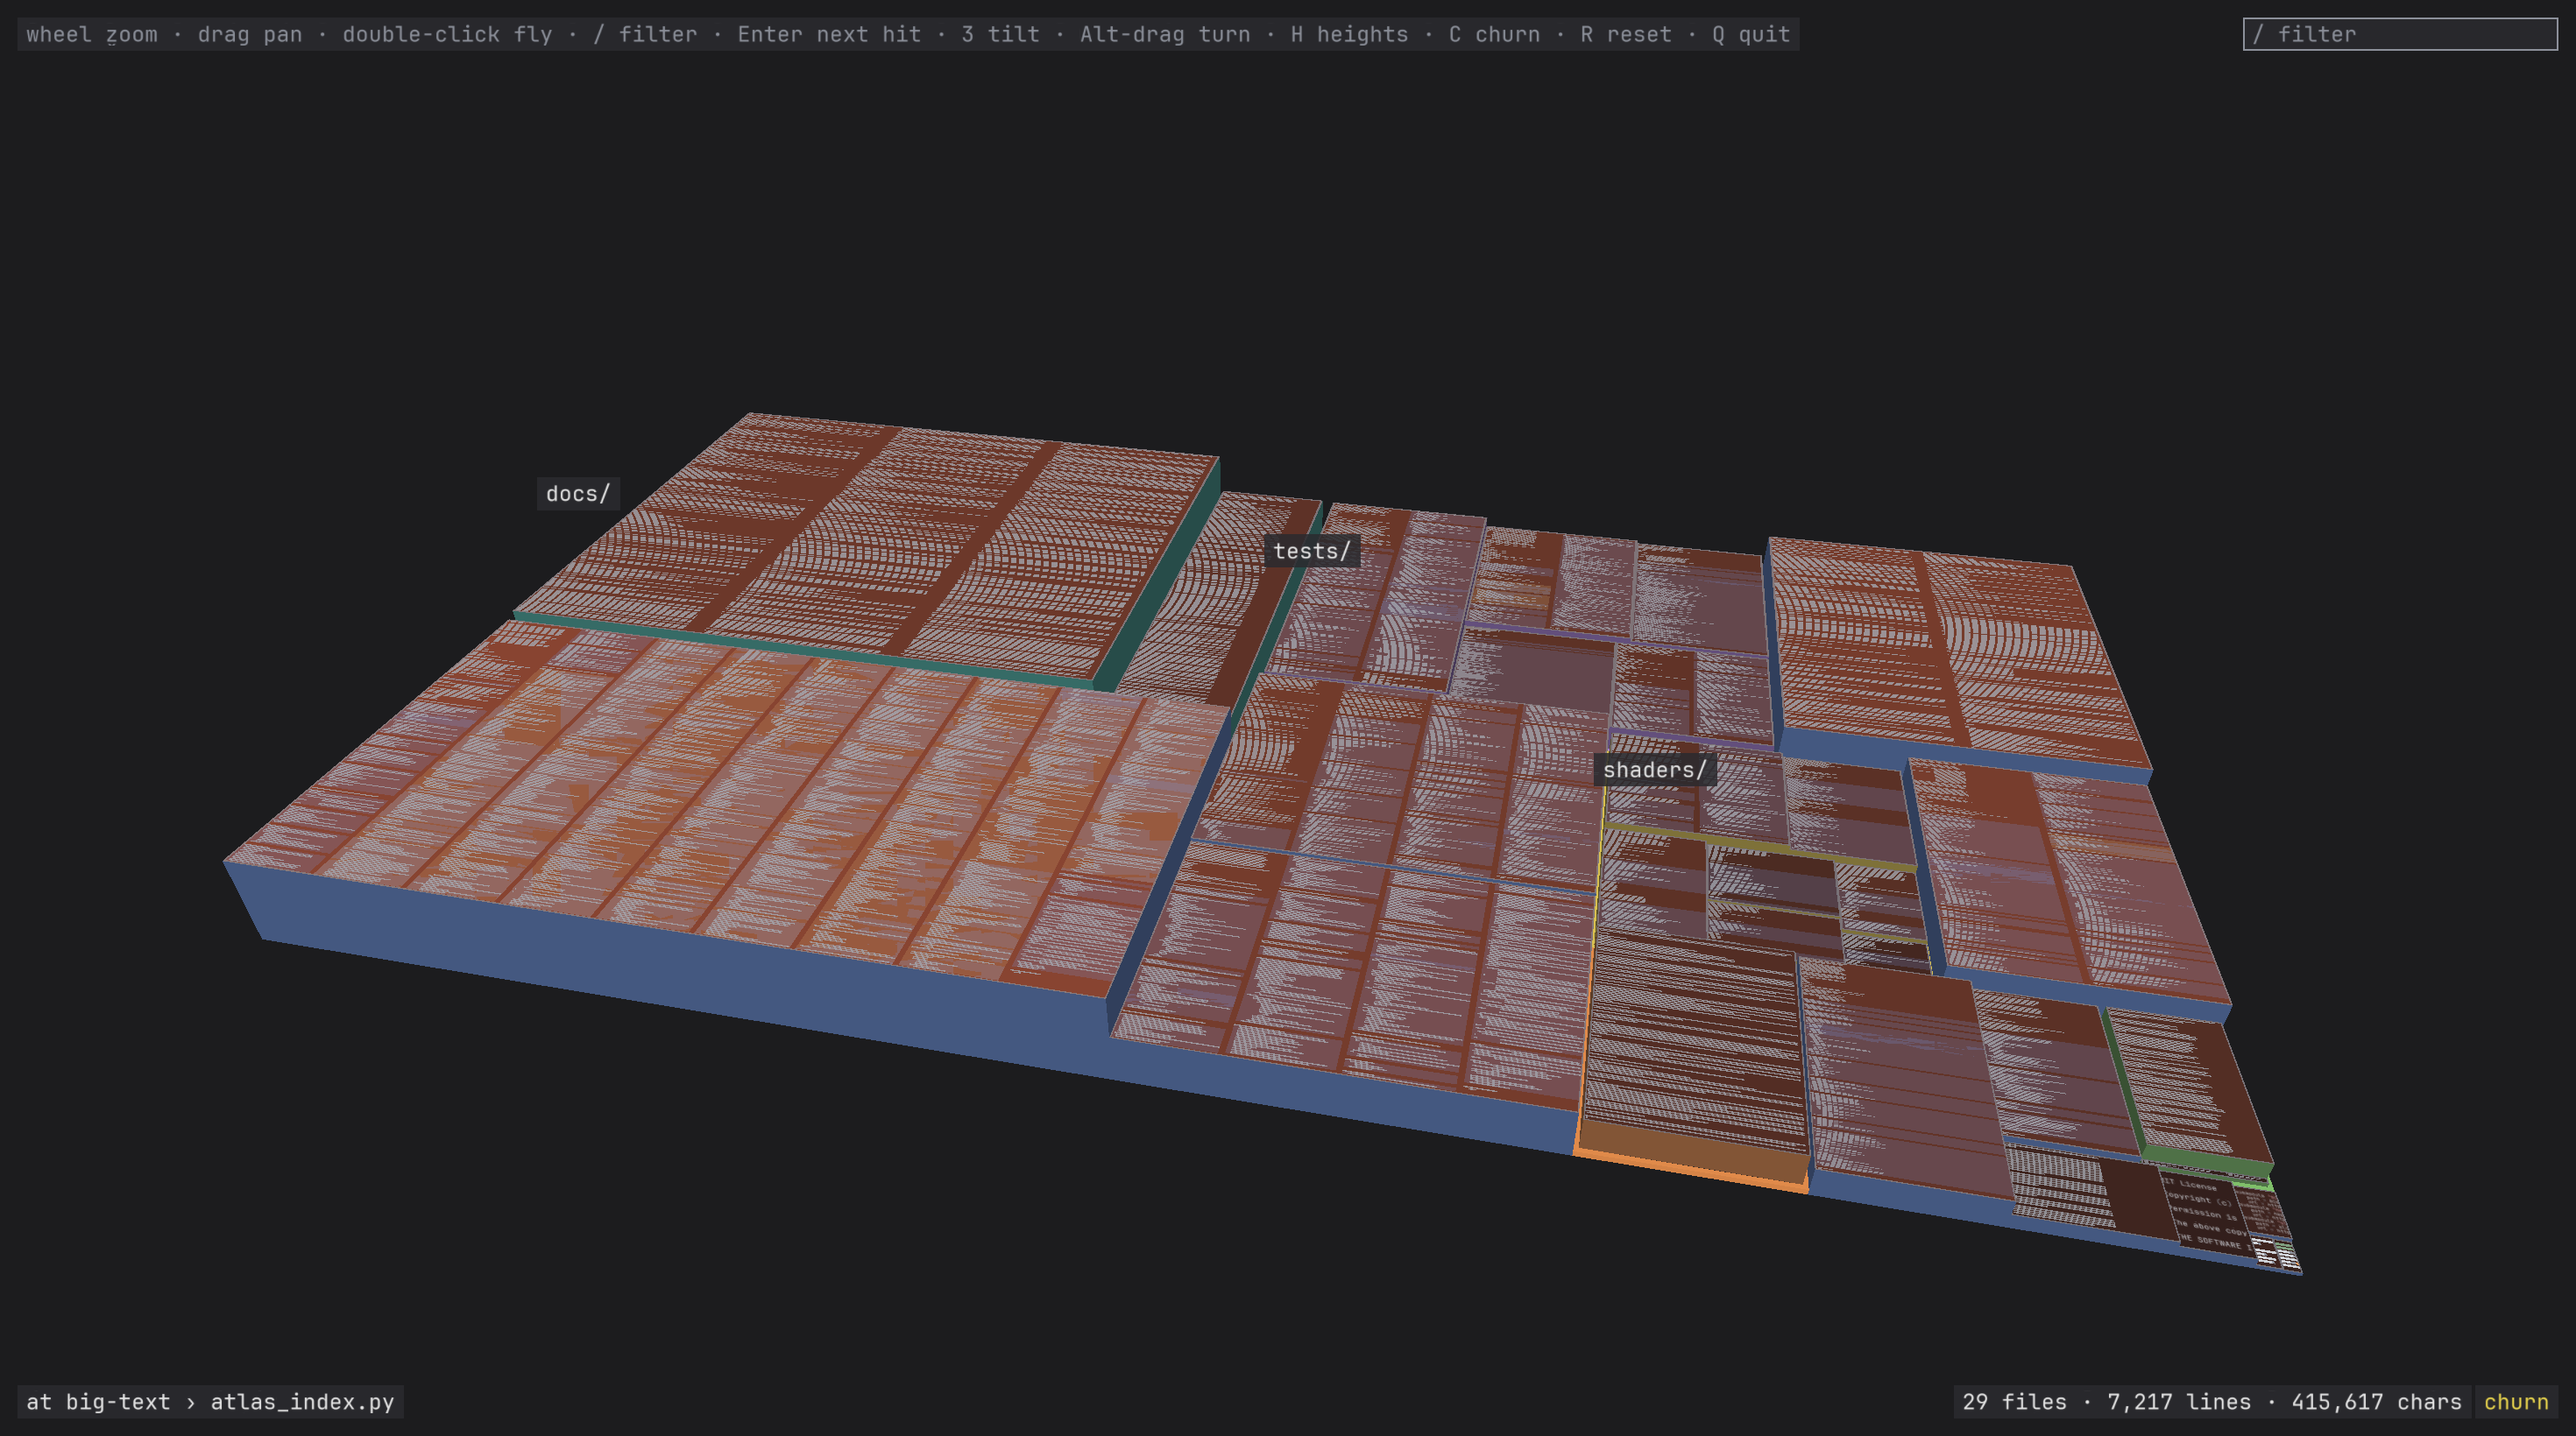
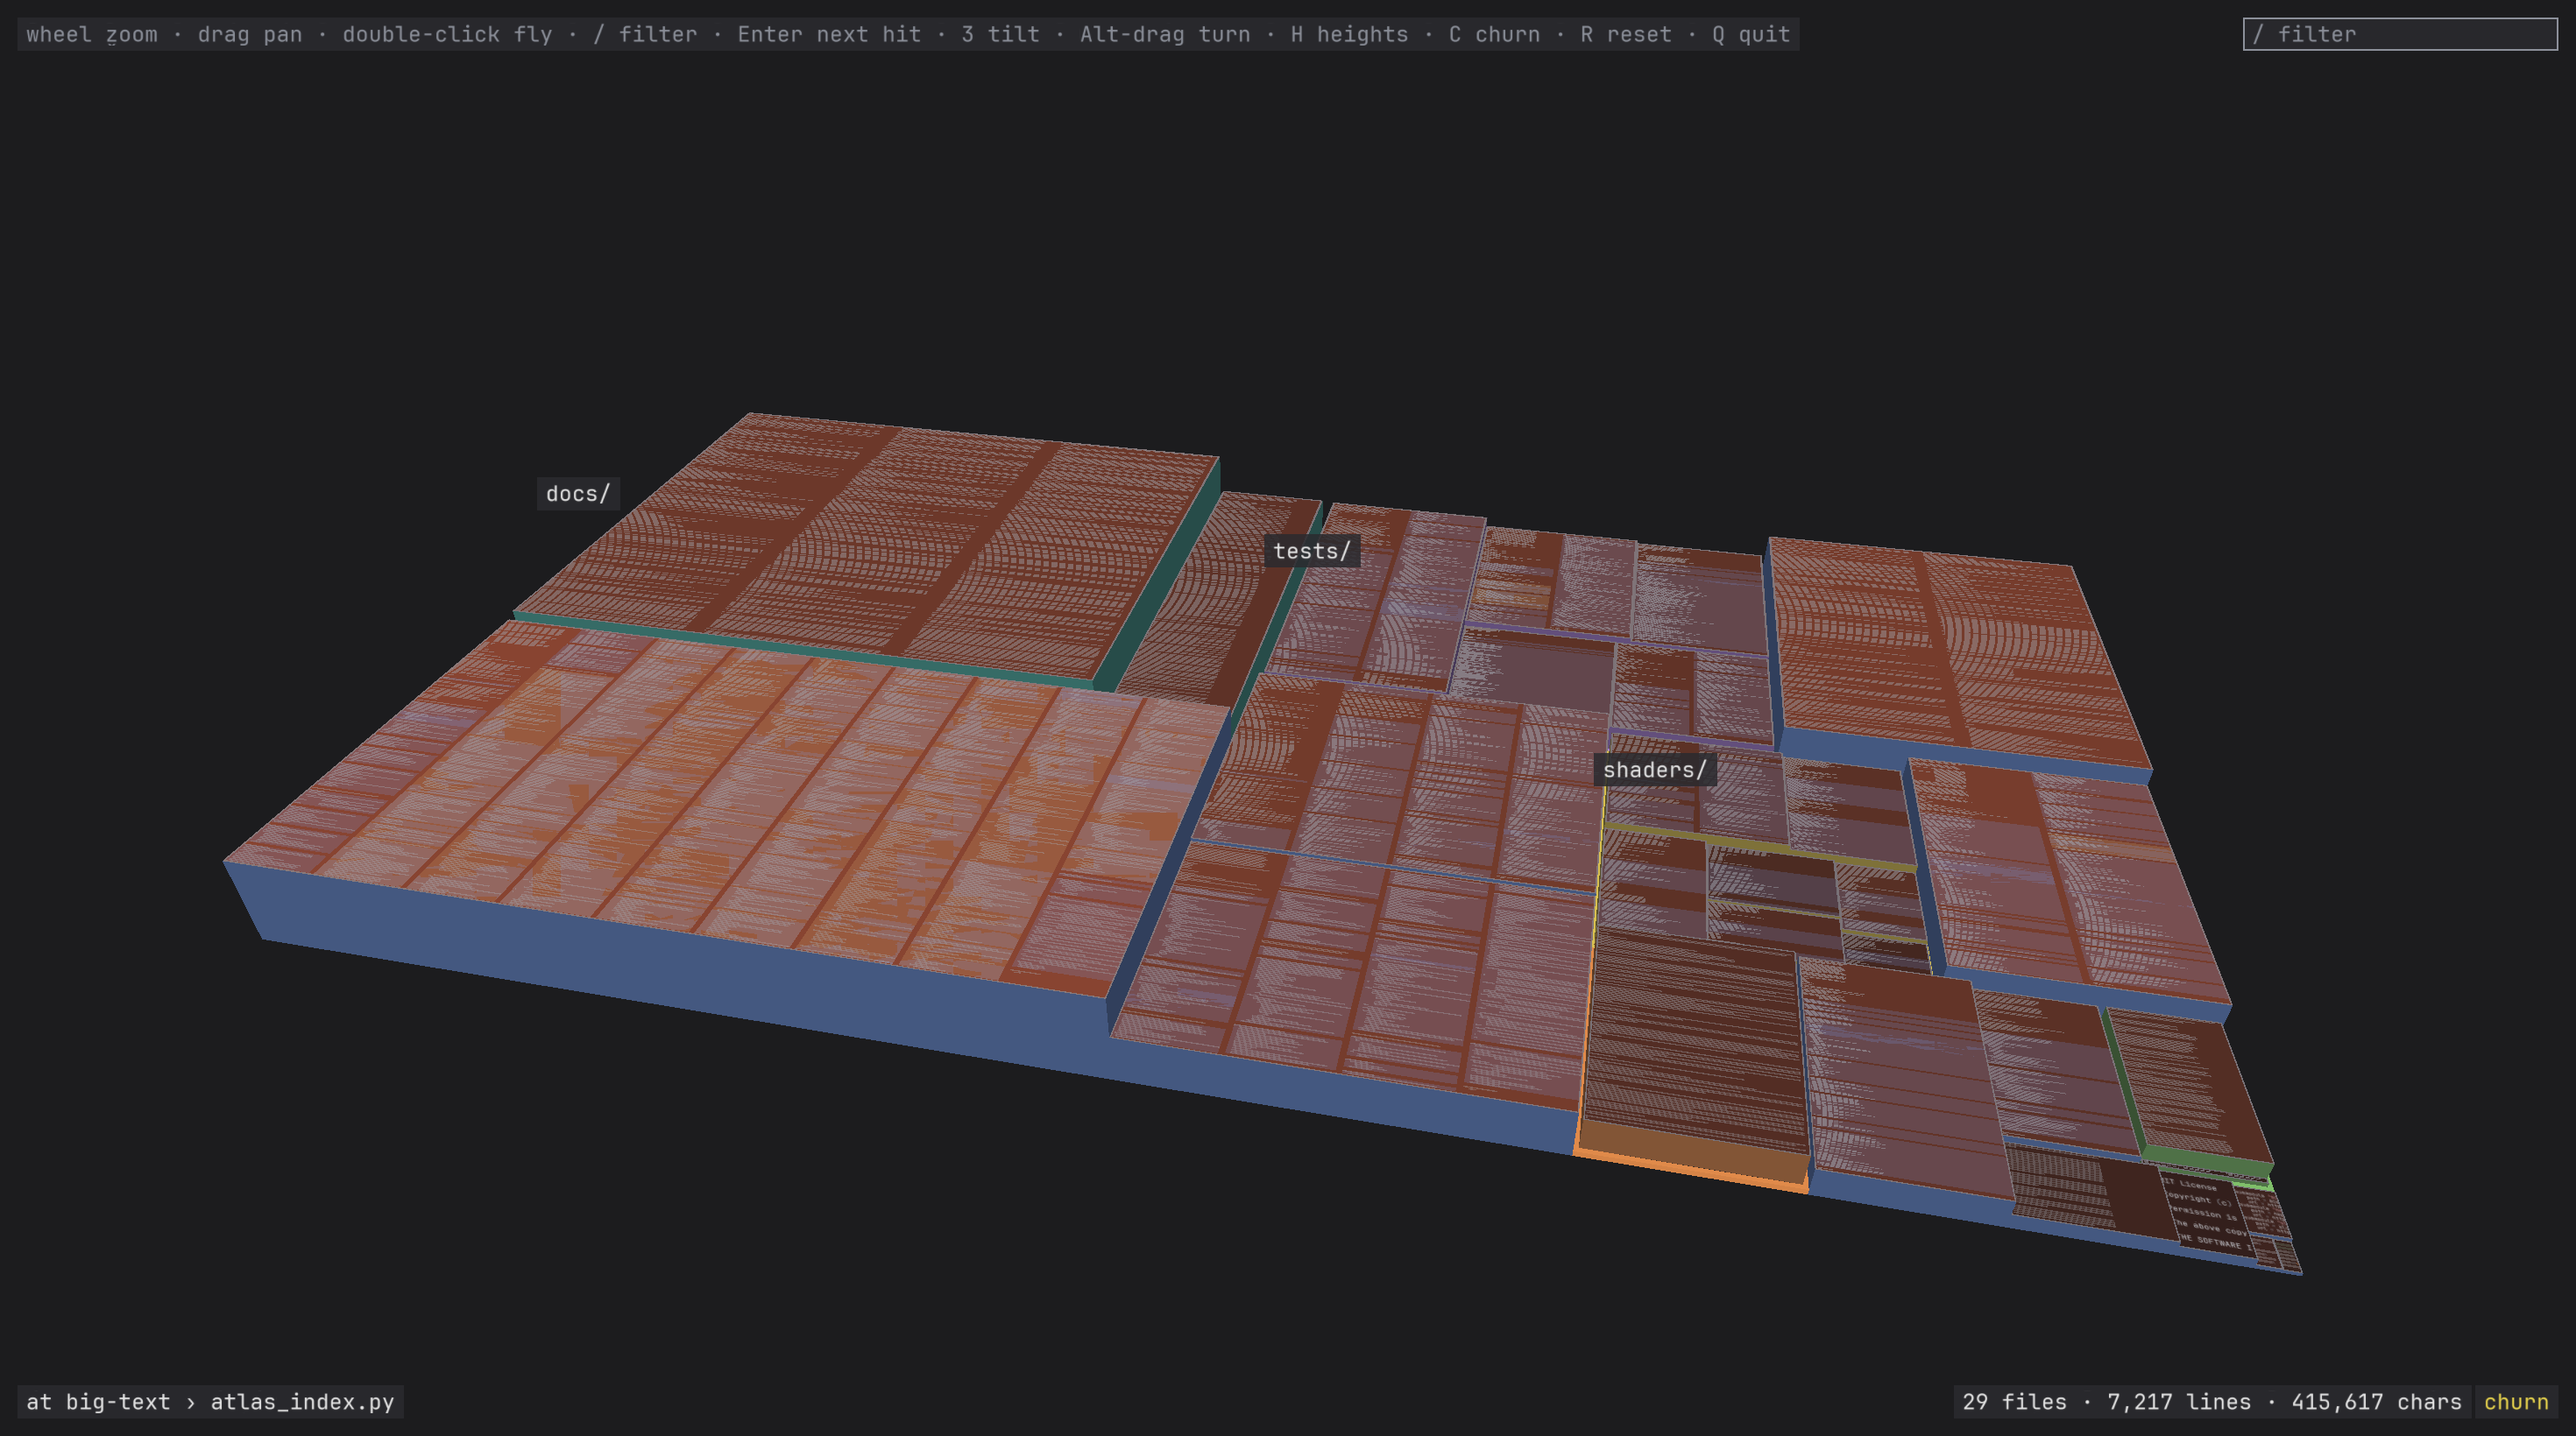
The directory terraces sit behind the files in 3D: a polygon offset on the directory pass
With the heights off every terrace top and every file lay at the same depth, and the terrace's opaque top fought the file fills, a wash of the directory's hue over the code. The directory pass now draws with a polygon offset, so the tops always lose to what lies on them.

diff --git a/atlas_viewer.py b/atlas_viewer.py
@@ -54,6 +54,8 @@ ZOOM_TICK = math.log(1.2) / ZOOM_TAU    # one wheel unit ends up as x1.2
 ZOOM_VMAX = 12.0         # log-zoom per second at most
 PANEL_PT = 180           # results panel width in window points
 BAND_PT = 3              # the directory band's greatest width in window points
+BAR_HEIGHT = 0.7         # bars and token blocks stand this much of a row tall (the shaders' barf)
+INK_FAR = 0.55           # the bars' alpha at the far LODs when the scheme names no ink: the die shot
 DBL_CLICK_S = 0.35       # two presses this close in time and place are a double click
 MARGIN_PT = 10           # UI margin in window points
 FLY_RHO = 1.4
@@ -71,7 +73,7 @@ def rgb(h):
 
 
 # the default scheme, the code atlas's: an index.json "scheme" overrides any key
-SCHEME = {"ground": "1c1c1e", "page": "111114", "bar": "a4a8b0", "ink": [0.55, 0.8, 1.0],
+SCHEME = {"ground": "1c1c1e", "page": "111114", "bar": "a4a8b0",
           "kinds": ["000000", "cfd2d8", "7aa2f7", "e0c080", "d7a0a8", "7f9f7f", "f0a060", "8c909a", "7fc8c8", "c8d08c"],
           "items": ["7aa2f7", "e0c080", "d7a0a8", "5fb7b7", "8c909a"]}
 HUES = np.array([rgb(h) for h in ("6a8fd8", "4fb3a6", "7fbf6a", "e08a4a", "d8c050",
@@ -279,7 +281,7 @@ class Viewer:
         self.page = rgb(sc["page"].lstrip("#"))
         self.bar = rgb(sc["bar"].lstrip("#"))
         self.band = rgb(sc["band"].lstrip("#")) if sc.get("band") else None   # one colour for every band, else the hues
-        self.ink = np.array(sc["ink"], np.float32)     # bars' alpha far and near, the word blocks' alpha
+        self.ink = np.array(sc["ink"], np.float32) if sc.get("ink") else None   # bars' alpha far and near, the blocks'; measured below when unset
         self.leading = float(sc.get("leading", 1.0))   # the line box over the ink extents: a book's air between lines
         self.kind_colors = np.array([rgb(h.lstrip("#")) for h in sc["kinds"]], np.float32)
         self.item_colors = {k + 1: rgb(h.lstrip("#")) for k, h in enumerate(sc["items"])}
@@ -317,6 +319,15 @@ class Viewer:
         self.ui_aspect = self.ui_gm["cell_w"] / self.ui_gm["cell_h"]
         self.adv = np.zeros(224, np.float32)                       # advances in line heights, bytes 32..255
         self.adv[:len(self.gm["advances"])] = self.gm["advances"]
+        if self.ink is None:
+            # the scheme names no ink: measure it, the mean coverage of the
+            # face's glyphs over this corpus's characters, so the blocks carry
+            # the ink of the text they stand in for; the bars keep the bright
+            # far view and ease down to the blocks by 3 px per line
+            freq = np.bincount(a["chars"], minlength=256)[32:256]
+            ink, _ = atlas_font.mean_ink(args.font, args.font_index, self.leading, freq)
+            block = ink / BAR_HEIGHT
+            self.ink = np.array([INK_FAR, block * 1.25, block], np.float32)
         self.vt = load_vector_tier(args.font, args.font_index, self.leading) if args.vector_text else None
         self.load_seconds = time.perf_counter() - t0
 
@@ -1928,7 +1939,13 @@ class Viewer:
         if self.proj == "3d":
             glEnable(GL_DEPTH_TEST)
             glDepthFunc(GL_LEQUAL)
+            # the terrace tops sit at the same depth as the files on them (at
+            # every depth with the heights off): push them back a little so
+            # the files never fight them
+            glEnable(GL_POLYGON_OFFSET_FILL)
+            glPolygonOffset(1.0, 2.0)
         self.draw_instanced("dir", self.n_dirs)
+        glDisable(GL_POLYGON_OFFSET_FILL)
         if self.proj == "3d":
             glUseProgram(self.prog["wall"])
             glUniform1i(self.uniform("wall", "uNFiles"), self.n_files)
